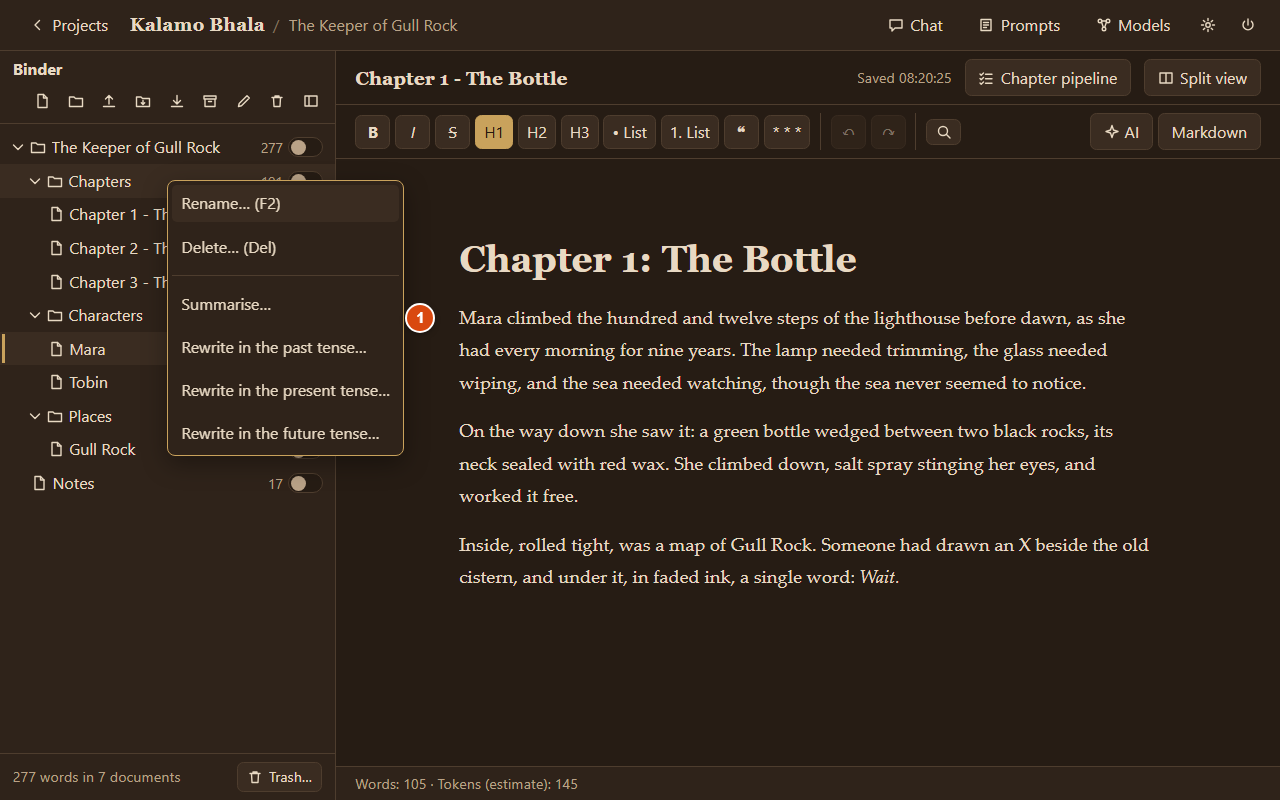
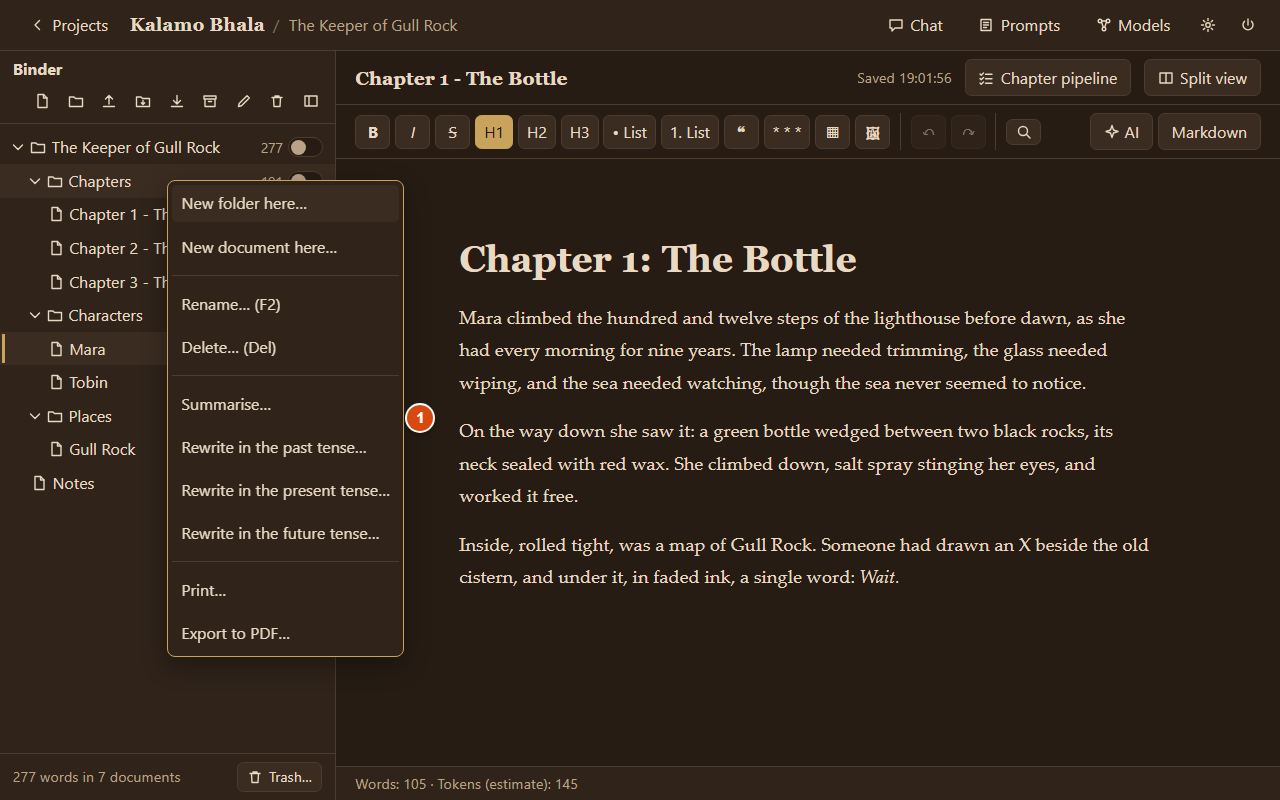
Guide: new screenshots (fixed markers, full Summarise dialog), Examples, tables and pictures, Print and PDF text

diff --git a/GUIDE.md b/GUIDE.md
@@ -134,6 +134,11 @@ wizard again…*):
 Each starts with a *Start here* document. Change them or delete them: deleted examples do not come back, and
 **Examples…** adds one again whenever you like.
 
+![The Example projects dialog](images/21-examples.png)
+
+**Examples…** lists the four examples with what is in them; **Add** puts a fresh copy in your library (a second copy
+gets "(2)" after its name).
+
 When you start Kalamo again it opens **the project you had open last time** (change this in Settings → *Start Kalamo with*).
 
 ## 4. Writing: the binder and the editor
@@ -161,13 +166,23 @@ When you start Kalamo again it opens **the project you had open last time** (cha
 cancels). In the binder, select a document or folder and press **F2**, click the pencil, or right-click it →
 **Rename…**.
 
-**Tables.** The **▦** button inserts a table with a header row. Inside a table, buttons appear to add a row or a
-column, or to delete a row, a column or the table; **Tab** moves to the next cell. Tables are saved as ordinary
-Markdown tables, so other Markdown programs show them too.
+**Tables**
 
-**Pictures.** The **🖼** button adds a picture (PNG, JPEG, GIF, WebP or SVG) at the cursor. Kalamo copies it into the
-project's *images* folder (not shown in the binder) and the document keeps an ordinary Markdown link to it. Pictures
-are in your backups, and in a ZIP export of a whole project.
+![A table in the novel example](images/22-table.png)
+
+1. **A table** in your text. Click in a cell to type; **Tab** moves to the next cell.
+2. **The table buttons.** **▦** inserts a new table with a header row. While the cursor is in a table, buttons appear
+   to add a row (**+ Row**) or a column (**+ Col**), or to delete a row, a column or the whole table.
+
+Tables are saved as ordinary Markdown tables, so other Markdown programs show them too.
+
+**Pictures**
+
+![A picture in the novel example](images/23-picture.png)
+
+1. **The 🖼 button** adds a picture (PNG, JPEG, GIF, WebP or SVG) at the cursor.
+2. **The picture** in your text. Kalamo copies it into the project's *images* folder (not shown in the binder) and the
+   document keeps an ordinary Markdown link to it. Pictures are in your backups, and in a ZIP export of a whole project.
 
 **New here.** Right-click a folder or the project name → **New document here…** or **New folder here…** to add it
 right inside that folder.
@@ -195,8 +210,9 @@ project**; **Ctrl+H** jumps to *Replace*. *Replace all* asks first and keeps saf
 
 ![The right-click menu on a folder](images/08-right-click.png)
 
-Right-click a document, a folder or the project name (**1**) to **summarise** it or **rewrite it in the past, present
-or future tense** with AI.
+Right-click a document, a folder or the project name (**1**) to add a document or folder inside it, rename or delete
+it, **summarise** it or **rewrite it in the past, present or future tense** with AI, or **Print…** / **Export to
+PDF…** it (see [section 8](#8-backups-and-exports)).
 
 ## 6. Setting up the AI (OpenRouter)
 
@@ -306,6 +322,10 @@ insert it, or (for tense) replace the original. A safety copy is always made fir
 
 **Export** (binder toolbar) saves a document, a folder or the whole project as one Markdown file, one plain-text file,
 or a ZIP of the `.md` files, in binder order.
+
+**PDF and printing.** In the same dialog, **PDF** and **Print** open your browser's print window with the document,
+folder or project laid out as pages, tables and pictures included. To make a PDF, choose **Save as PDF** as the
+printer. You can also right-click in the binder → **Print…** or **Export to PDF…**, or press **Ctrl+P** in the editor.
 
 Kalamo also keeps automatic safety copies of documents before any AI change, in a hidden `.kalamo\safety` folder
 inside each project.
